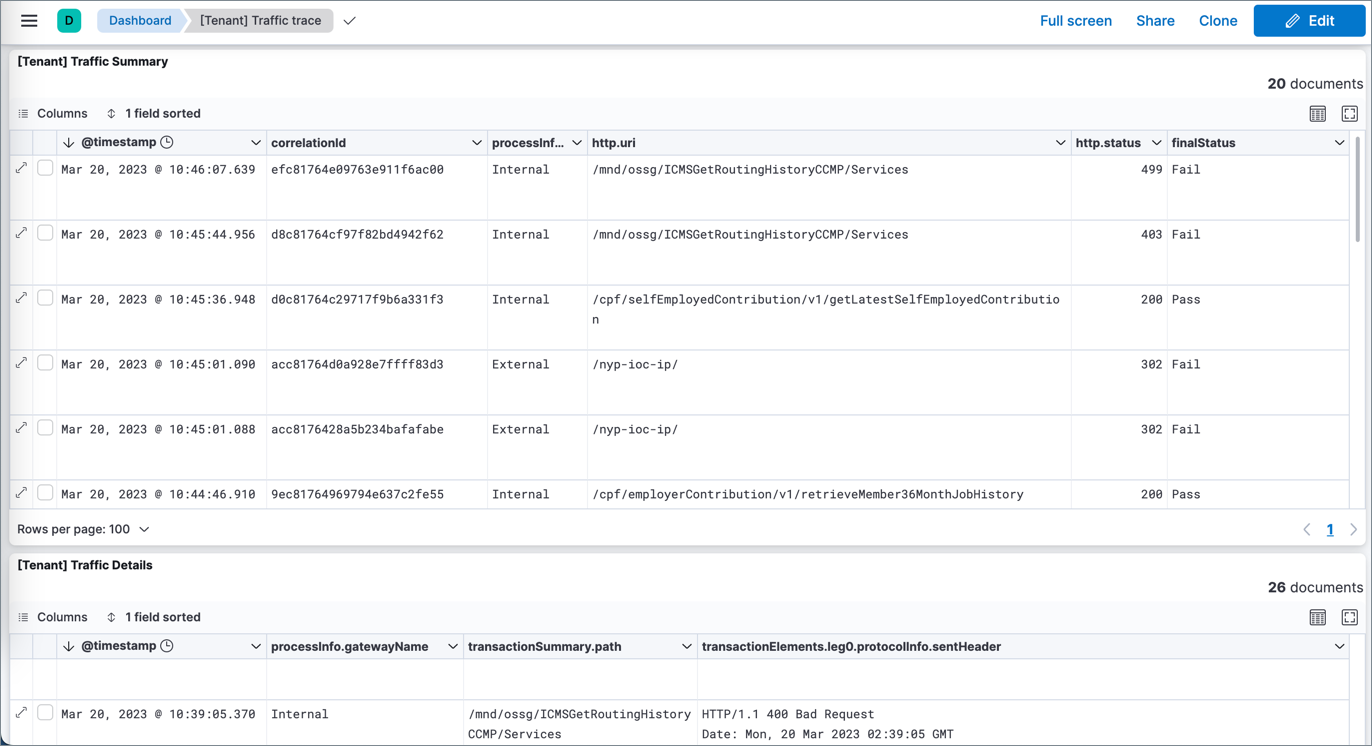
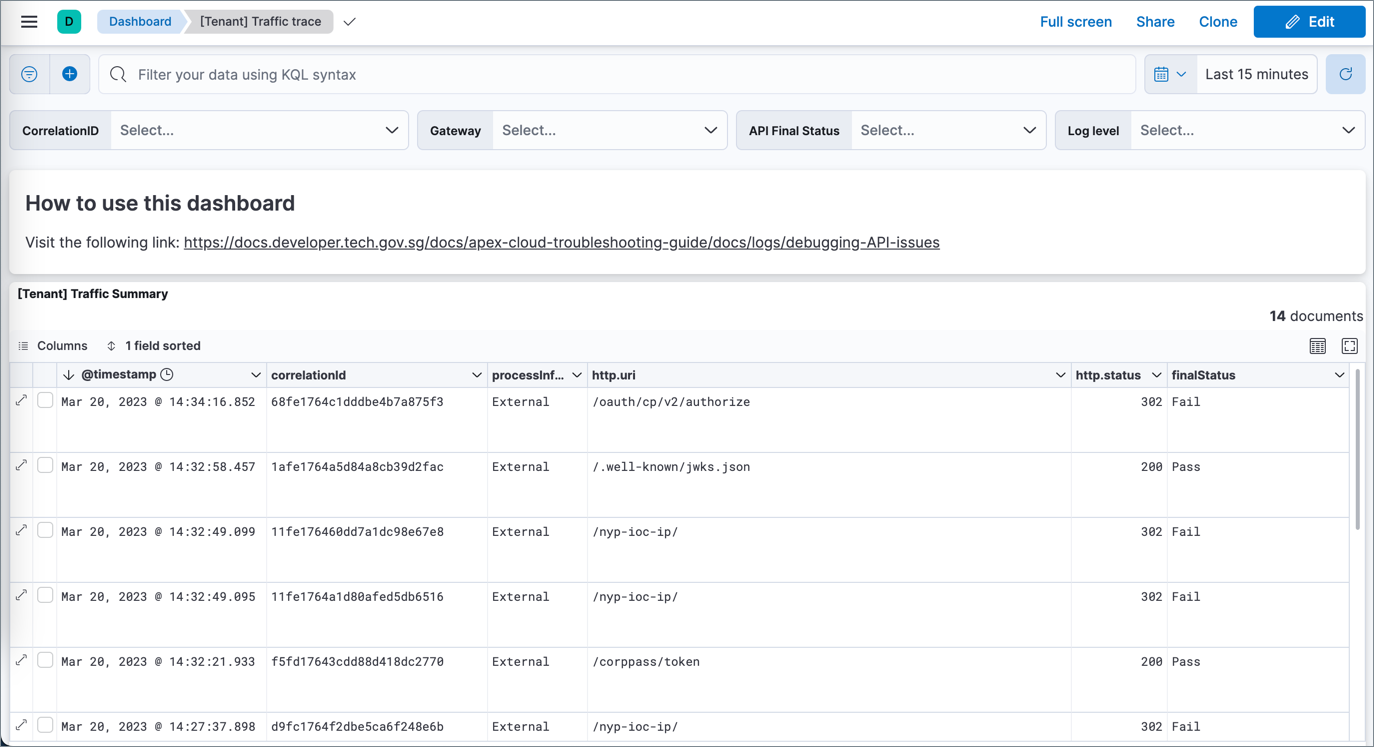
Update dashboard

diff --git a/docs/logs/debugging-API-issues.md b/docs/logs/debugging-API-issues.md
@@ -52,23 +52,29 @@ You need:
 
 To debug a specific API request, you can use the available filters in the dashboard to narrow down the data displayed in the panels.
 
+![Select dashboard filters](/images/dashboard-filters.png) 
+
 | Filter | Description | Used for |
 | --- | -- | -- |
-| **Time range** | Specifies the time range that the API was processed. | All panels
-| **CorrelationID** | Filters or identifies a specific API request in a query. | All panels
-| **Gateway** | Filters the gateway type by either **internal** or **external** values. | Traffic Summary panel
-| **API Final Status** | Filters the status of the request by either **Pass** or **Fail** values. | Traffic Summary panel
-| **Log level** | Filters by the log levels in the Traffic Trace panel. | Traffic trace panel |
+| **(1) Time range** | Specifies the time range that the API was processed. | All panels
+| **(2) CorrelationID** | Filters or identifies a specific API request in a query. | All panels
+| **(3) Gateway** | Filters the gateway type by either **internal** or **external** values. | Traffic Summary panel
+| **(4) API Final Status** | Filters the status of the request by either **Pass** or **Fail** values. | Traffic Summary panel
+| **(5) Log level** | Filters by the log levels in the Traffic Trace panel. | Traffic trace panel |
 
 1. On your Traffic Trace dashboard, use the **Time range**, **Gateway**, and **API Final Status** filters to narrow down the list of API requests in the Traffic Summary panel.
 
 1. Browse through the list of API requests in the Traffic Summary panel, and copy the **Correlation ID** of the problematic request.
-    > Note: You can also hover over the Correlation ID entry and  click the (+) icon to filter the results by that value.
+
+    ![copy correlation ID](/images/dashboard-correlationid.png) 
+
+    > Note: You can also hover over the Correlation ID entry and  click the (**+**) icon to filter the results by that value.
 
 1. In the Correlation ID filter, paste the value of the Correlation ID that you copied in the previous step, which corresponds to the problematic API request.
+    ![paste correlation ID](/images/dashboard-correlationid-filter.png) 
 
 1. View the Traffic Trace panel and check the details in the message column to trace the root cause of the error or issue.
-
+    ![traffic-trace-message](/images/dashboard-trace-error.png) 
 
 <!-- >
 1. Configure the following filters as needed.
